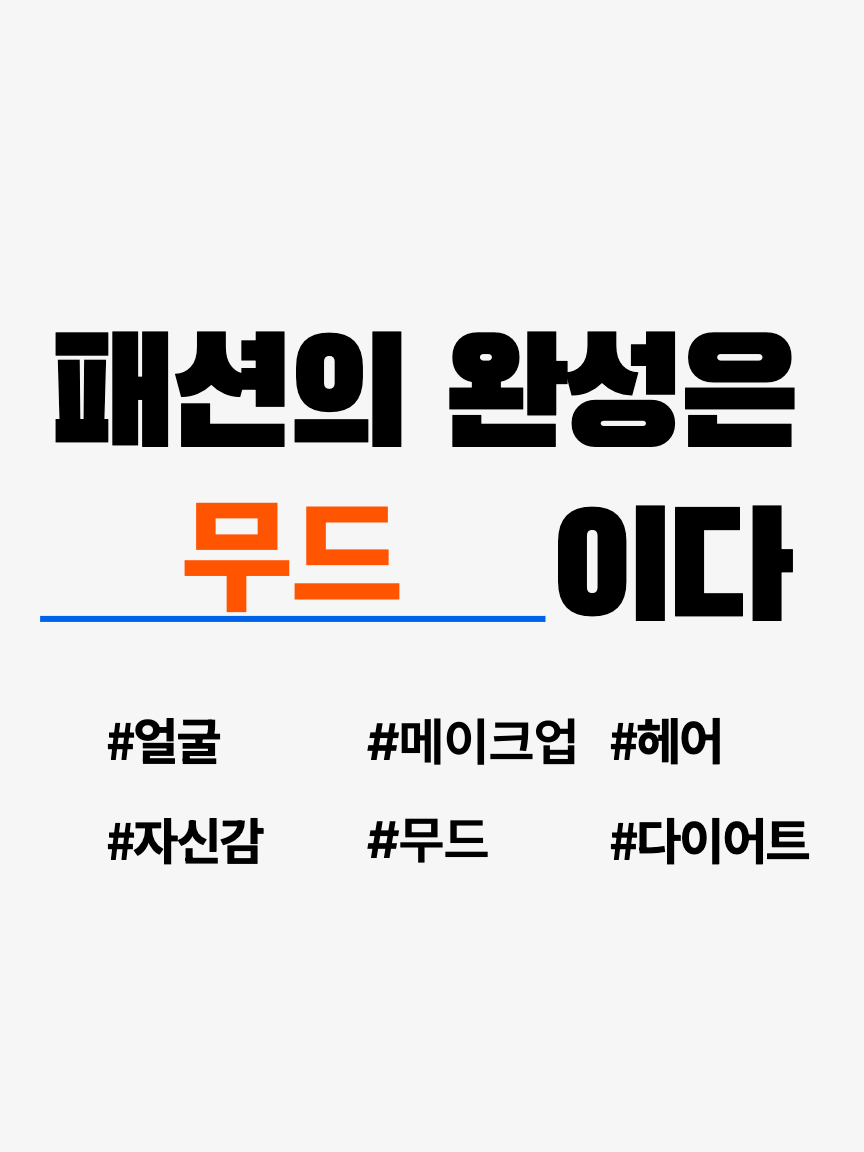
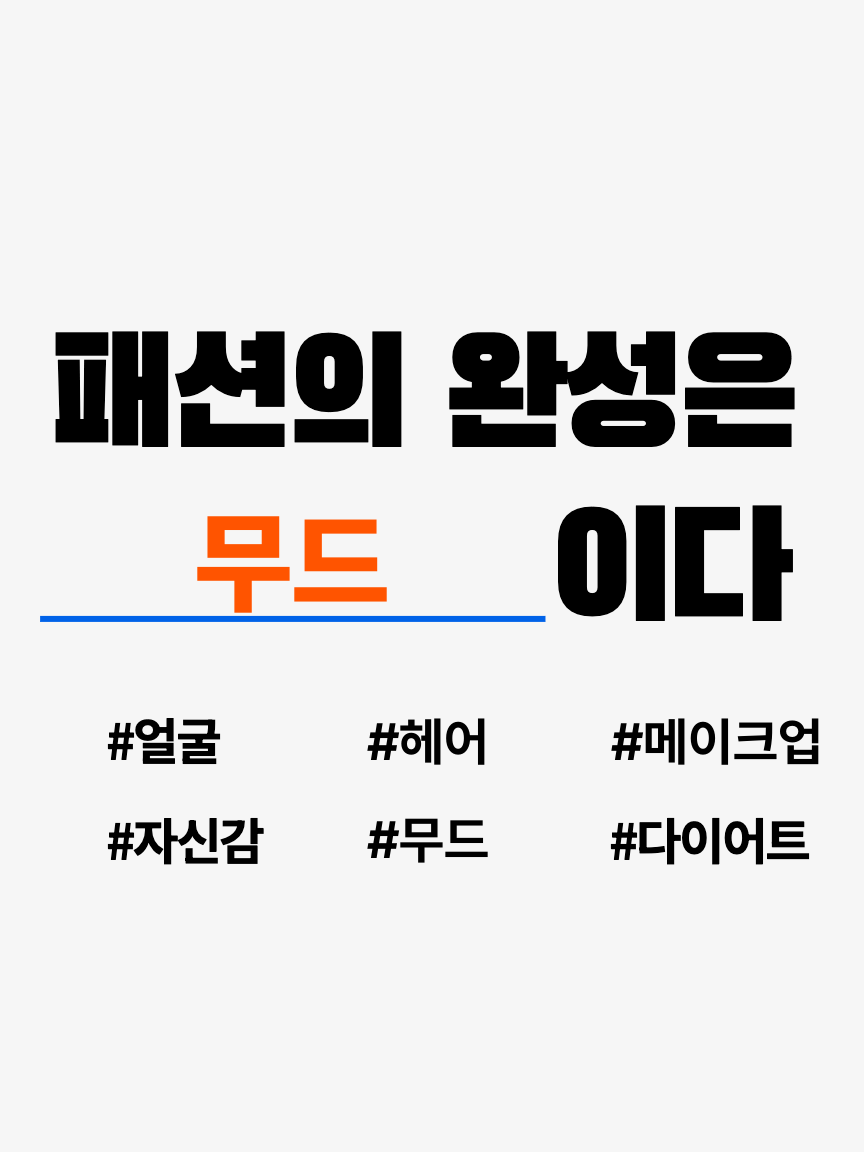
Add files via upload

Changed region(s): [[0.2188, 0.4375, 0.4688, 0.5312], [0.5312, 0.625, 0.9688, 0.6875], [0.4688, 0.625, 0.5, 0.6562]]

diff --git a/src/overlay/submitApplication.js b/src/overlay/submitApplication.js
@@ -1,18 +1,38 @@
-const SHEET_URL = '여기에_URL_붙여넣기';
+// 신청 폼 전송 어댑터 — 구글 시트(Apps Script 웹앱)로 전송 + 로컬 백업.
+//
+// ▶ 설정: 아래 SHEET_URL 에 Google Apps Script 웹앱 주소를 붙여넣으세요.
+//   (설정 방법은 프로젝트의 SHEETS연동.md 참고)
+//   비워두면 로컬(localStorage)에만 저장됩니다.
+const SHEET_URL = ''; // 예: 'https://script.google.com/macros/s/AKfycb.../exec'
+
 const STORE_KEY = 'nua.applications.v1';
 
+/**
+ * @param {Record<string, unknown>} payload  // name, age, phone, region, time(배열), consent
+ * @returns {Promise<{ ok: boolean, id: string }>}
+ */
 export async function submitApplication(payload) {
   const record = { id: crypto.randomUUID(), at: new Date().toISOString(), ...payload };
+
+  // 1) 로컬 백업 (전송 실패 대비 — 항상 저장)
   try {
     const prev = JSON.parse(localStorage.getItem(STORE_KEY) || '[]');
     prev.push(record);
     localStorage.setItem(STORE_KEY, JSON.stringify(prev));
-  } catch (e) {}
+  } catch (e) { /* 저장 실패해도 아래 전송은 시도 */ }
+
+  // 2) 구글 시트로 전송 (Apps Script 웹앱)
+  //    text/plain + no-cors → CORS 프리플라이트 없이 바로 전송 (응답은 읽지 않음)
   if (SHEET_URL) {
     try {
-      await fetch(SHEET_URL, { method:'POST', mode:'no-cors',
-        headers:{'Content-Type':'text/plain;charset=utf-8'}, body:JSON.stringify(record) });
-    } catch (e) {}
+      await fetch(SHEET_URL, {
+        method: 'POST',
+        mode: 'no-cors',
+        headers: { 'Content-Type': 'text/plain;charset=utf-8' },
+        body: JSON.stringify(record),
+      });
+    } catch (e) { /* 네트워크 실패해도 로컬엔 남아있음 */ }
   }
+
   return { ok: true, id: record.id };
 }

diff --git a/SHEETS연동.md b/SHEETS연동.md
@@ -1,0 +1,47 @@
+# 신청폼 → 구글 시트 연동 (무료, 서버 불필요)
+
+Google Apps Script 웹앱을 만들어 폼 데이터를 구글 시트에 자동으로 쌓습니다.
+5분이면 됩니다.
+
+## 1. 구글 시트 만들기
+- 브라우저에서 https://sheets.new 접속 → 빈 시트 생성 (이름 예: `NUA 신청`)
+
+## 2. Apps Script 열기
+- 시트 상단 메뉴 **확장 프로그램 → Apps Script**
+- 기본 코드(`function myFunction(){}`)를 **전부 지우고**, 프로젝트의 **`apps-script.gs`** 내용을 **복사해 붙여넣기**
+- 저장(💾 또는 Ctrl/⌘+S)
+
+## 3. 웹앱으로 배포
+1. 오른쪽 위 **배포 → 새 배포**
+2. 톱니바퀴(유형 선택) → **웹 앱**
+3. 설정:
+   - 설명: 아무거나 (예: nua form)
+   - **다음 사용자로 실행: 나**
+   - **액세스 권한이 있는 사용자: 모든 사용자**
+4. **배포** 클릭 → 처음이면 **권한 승인**(내 계정 선택 → "고급" → "안전하지 않음(이동)" → 허용)
+5. 나오는 **웹 앱 URL** 복사 (형식: `https://script.google.com/macros/s/AKfycb.../exec`)
+
+## 4. 폼에 URL 연결
+- 파일 **`src/overlay/submitApplication.js`** 열기
+- 맨 위 줄
+  ```js
+  const SHEET_URL = '';
+  ```
+  에 복사한 URL을 붙여넣기:
+  ```js
+  const SHEET_URL = 'https://script.google.com/macros/s/AKfycb.../exec';
+  ```
+
+## 5. 재배포
+- 수정한 파일을 GitHub에 올리면(교체 업로드/push) Vercel이 자동 재배포합니다.
+
+## 확인
+- 배포된 사이트에서 신청 폼을 제출 → 구글 시트 `신청` 탭에 행이 추가되면 성공.
+- 컬럼: 접수시각 · 이름 · 나이 · 연락처 · 지역 · 희망 시간대 · 동의
+
+## 참고
+- 전송 실패(네트워크 등)해도 태블릿 브라우저 **localStorage에 백업**됩니다.
+  (개발자도구 콘솔에서 `localStorage.getItem('nua.applications.v1')` 로 확인/복구 가능)
+- 코드나 컬럼을 바꾸면 Apps Script에서 **배포 → 배포 관리 → 편집 → 새 버전**으로 다시 배포하세요.
+  (URL은 그대로 유지됩니다)
+- **개인정보**: 시트 공유 범위를 최소화하고, 이벤트 종료 후 데이터를 삭제하세요.
